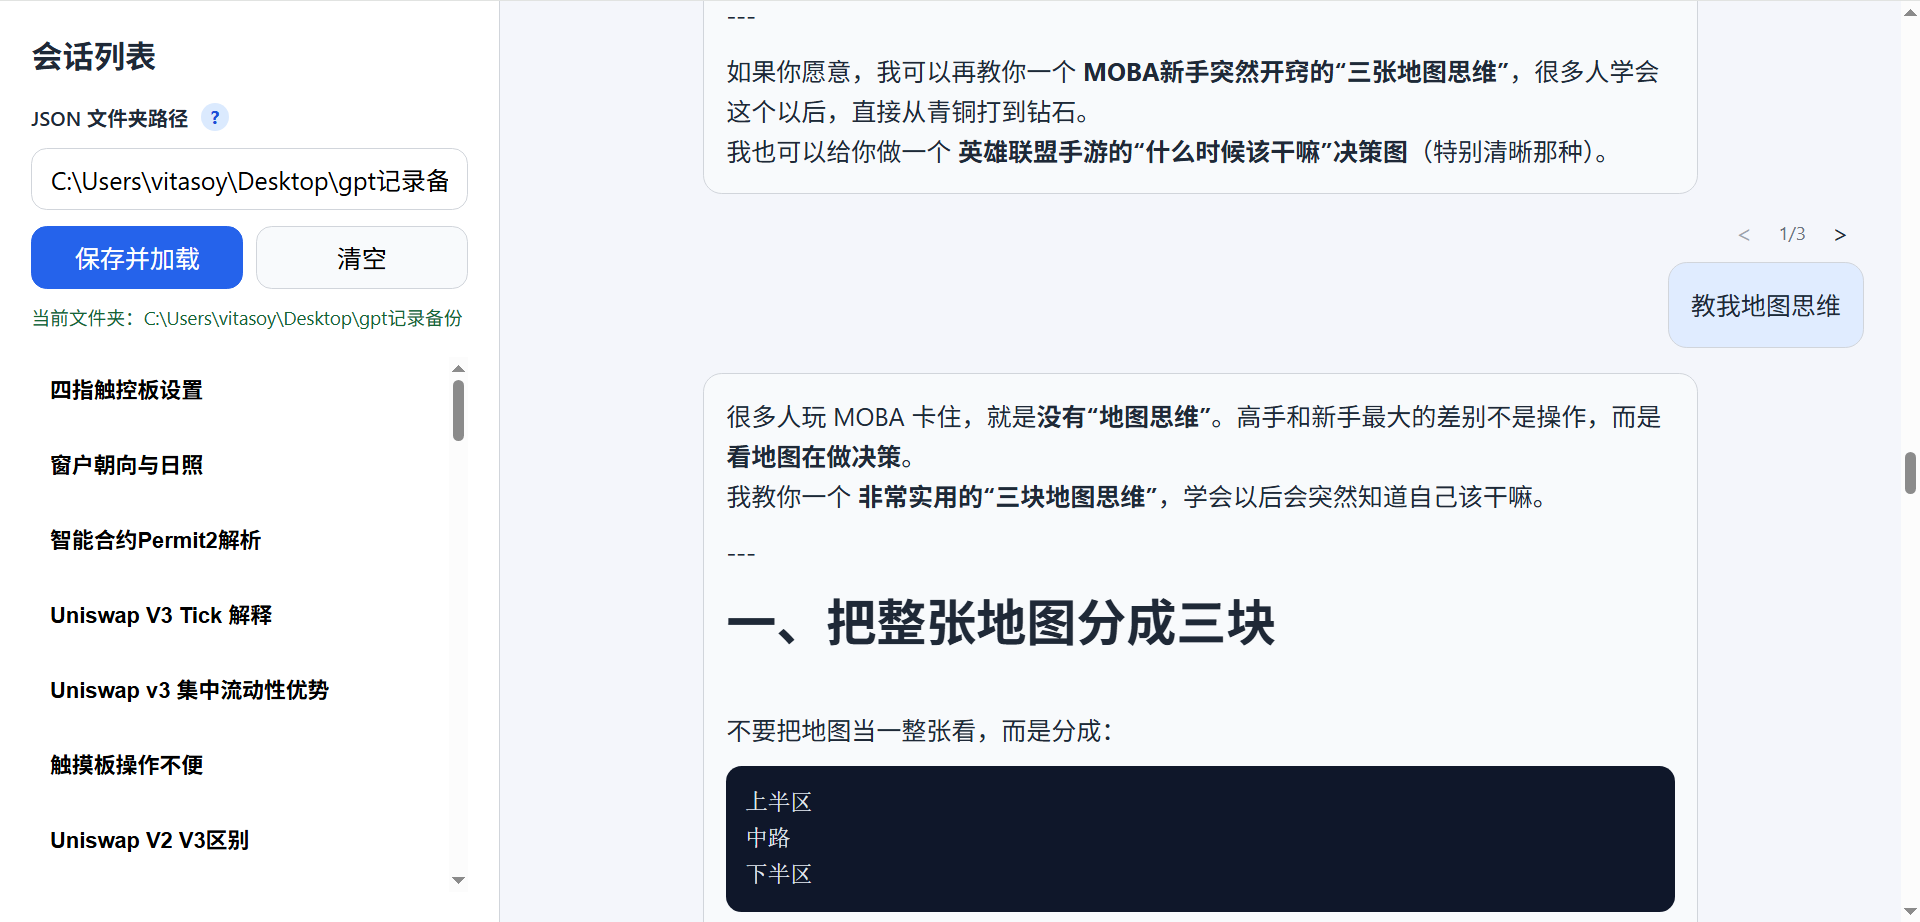
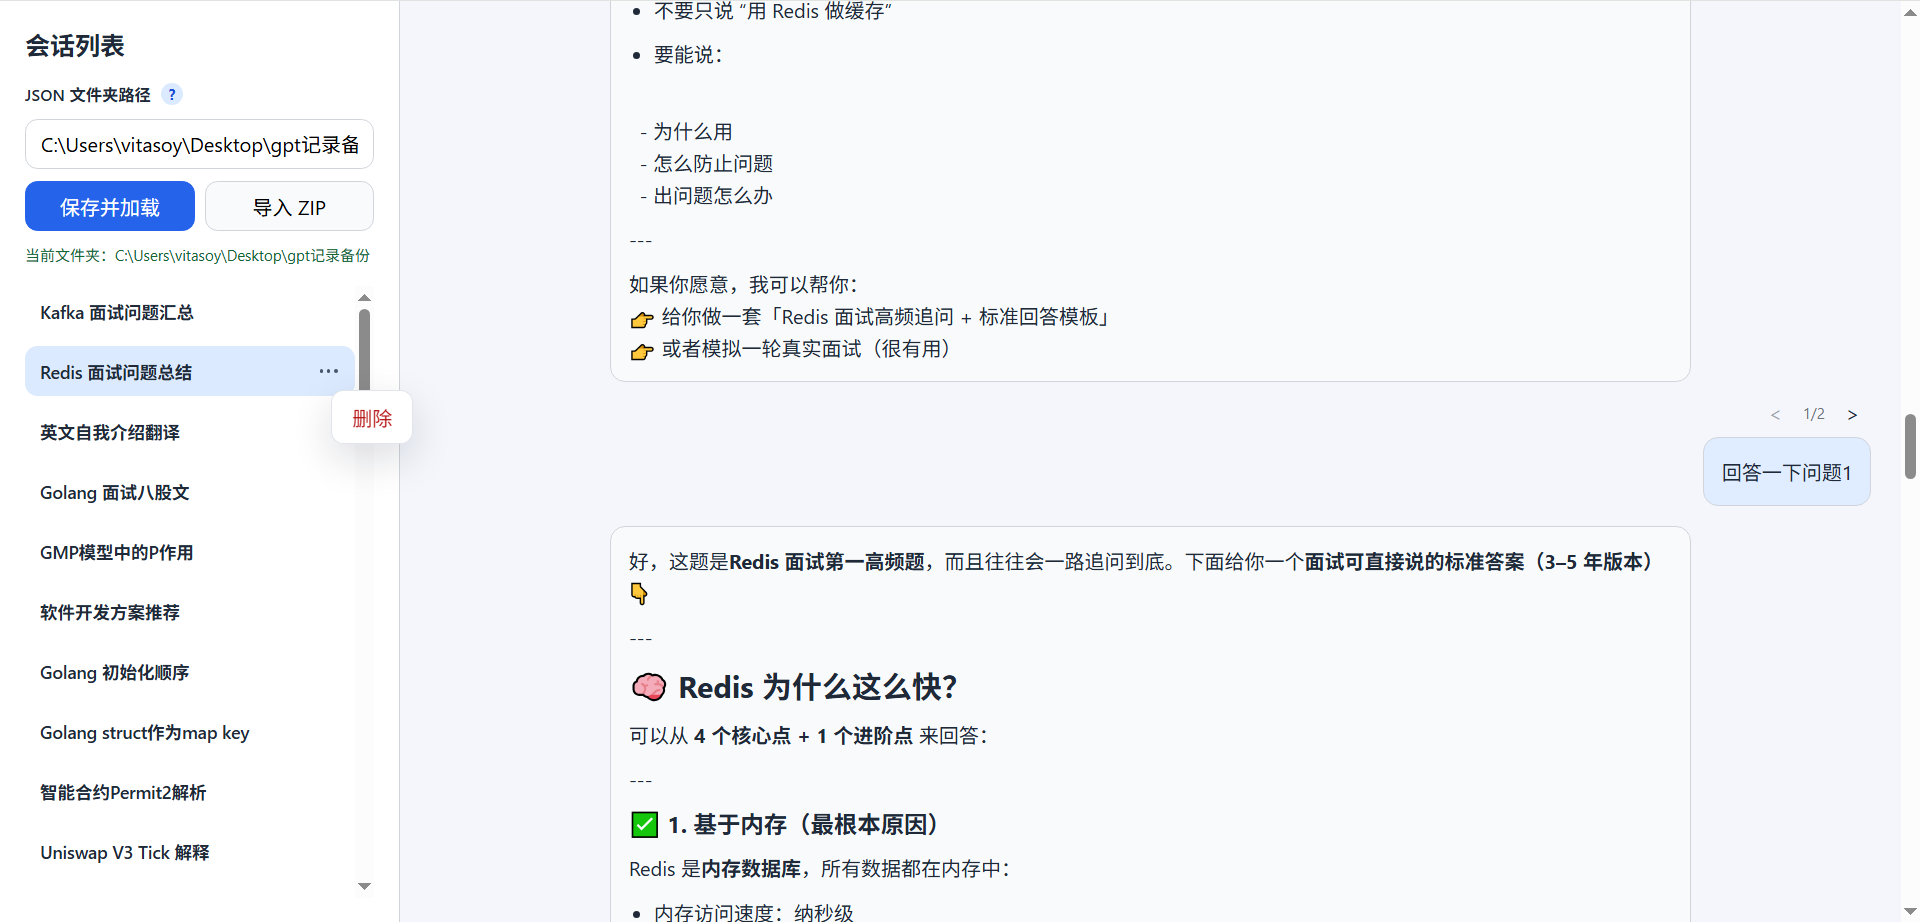
更新README

diff --git a/README.md b/README.md
@@ -1,12 +1,12 @@
 # ChatGPT Export Reader
 
-一个用于本地阅读 ChatGPT 导出 JSON 聊天记录的轻量工具，支持会话列表浏览、Markdown 渲染，以及对话分支切换。
+一个用于本地阅读 ChatGPT 导出 JSON 聊天记录的轻量工具，支持会话列表浏览、Markdown 渲染、分支切换，以及导入 ZIP 和删除会话文件。
 
 ## 背景说明
 
 这个项目用于阅读 Chrome 插件 [ChatGPT Degrade Checker - 降级检测器](https://chromewebstore.google.com/detail/chatgpt-degrade-checker-%E9%99%8D/inidgeckbobnafenlmlgfbeoijiamepm) 导出的 JSON 聊天记录。
 
-导出的聊天记录包含树状分支结构，普通 JSON 查看方式不方便阅读，也不方便切换不同分支。本项目的目标是把这些 JSON 记录整理成更接近日常聊天界面的阅读体验，并支持在分支节点之间切换查看。
+导出的聊天记录包含树状分支结构，普通 JSON 查看方式不方便阅读，也不方便在不同分支之间切换。本项目的目标是把这些 JSON 记录整理成更接近日常聊天界面的阅读体验，并支持在分支节点之间切换查看。
 
 ## 效果预览
 
@@ -15,7 +15,10 @@
 ## 功能特性
 
 - 读取指定文件夹中的 JSON 聊天记录
+- 支持导入 ZIP 文件，自动提取根目录下的 `.json` 文件到当前 JSON 文件夹
+- 导入 ZIP 时，同名 JSON 文件直接覆盖
 - 左侧展示会话列表，右侧展示会话详情
+- 支持删除会话文件，删除时会移动到系统回收站
 - 支持 Markdown 基础渲染
 - 支持树状对话分支切换
 - 支持记住上次使用的 JSON 文件夹路径
@@ -44,7 +47,7 @@ npm start
 
 ## Windows 一键启动
 
-在 Windows 上可以直接双击或在终端里运行：
+在 Windows 上可直接双击或在终端中运行：
 
 ```bat
 start-windows.cmd
@@ -62,14 +65,19 @@ start-windows.cmd
 1. 启动服务后打开 `http://localhost:3000`
 2. 在左侧输入 JSON 文件夹路径
 3. 点击“保存并加载”
-4. 选择左侧会话查看详情
-5. 如果某个节点存在多个后续分支，可在对应用户卡片上方切换不同分支
+4. 如需批量导入，可点击“导入 ZIP”，选择导出的 ZIP 文件
+5. ZIP 中根目录的 `.json` 文件会被解压到当前 JSON 文件夹；同名文件会直接覆盖
+6. 在左侧选择会话查看详情
+7. 如需删除某个会话，可在会话项的更多菜单中执行删除，文件会被移动到系统回收站
+8. 如果某个节点存在多个后续分支，可在对应卡片上方切换不同分支
 
 ## 数据目录说明
 
 由于普通浏览器页面不能稳定获取并持久化系统文件夹绝对路径，当前实现采用“后端保存文件夹路径”的方式。
 
 应用会把当前选择的目录保存到项目根目录下的 `data-directory.json` 中。服务重启后会优先恢复这个路径。
+
+ZIP 导入功能也会使用这个已保存的目录作为目标目录，因此在导入前需要先正确配置 JSON 文件夹路径。
 
 ## 环境变量
 
@@ -102,9 +110,23 @@ npm start
 
 ## 常见问题
 
-### 打开页面没有会话
+### 打开页面后没有会话
 
 确认已经保存了正确的 JSON 文件夹路径，并且该目录中存在合法的 `.json` 文件。
+
+### 导入 ZIP 失败
+
+请确认：
+
+- 已先配置并保存 JSON 文件夹路径
+- 选择的是合法 ZIP 文件
+- ZIP 根目录下确实包含 `.json` 文件
+
+当前只会导入 ZIP 根目录下的 JSON 文件，不会递归导入子目录中的文件。
+
+### 删除后文件去哪了
+
+删除操作不会直接永久删除文件，而是会尝试把文件移动到系统回收站。
 
 ### 某些消息没有显示
 
@@ -112,7 +134,7 @@ npm start
 
 ### 为什么不是直接在浏览器里选择任意文件夹并永久记住
 
-这是浏览器安全模型限制导致的。当前项目使用后端配置文件保存目录路径，稳定且简单。
+这是浏览器安全模型限制导致的。当前项目使用后端配置文件保存目录路径，方式更稳定也更简单。
 
 ## 开源协议
 
